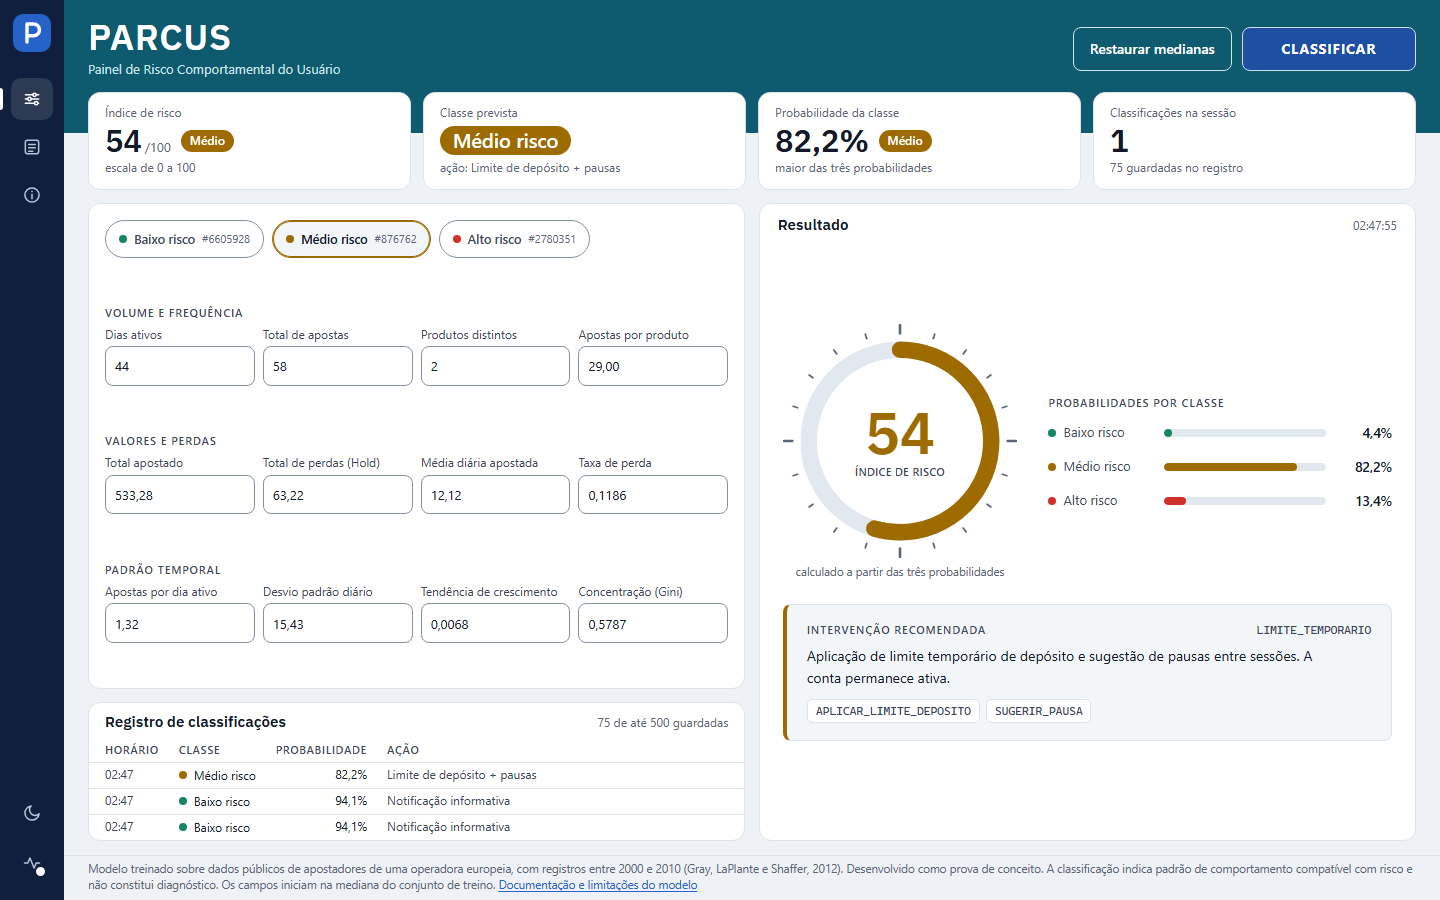
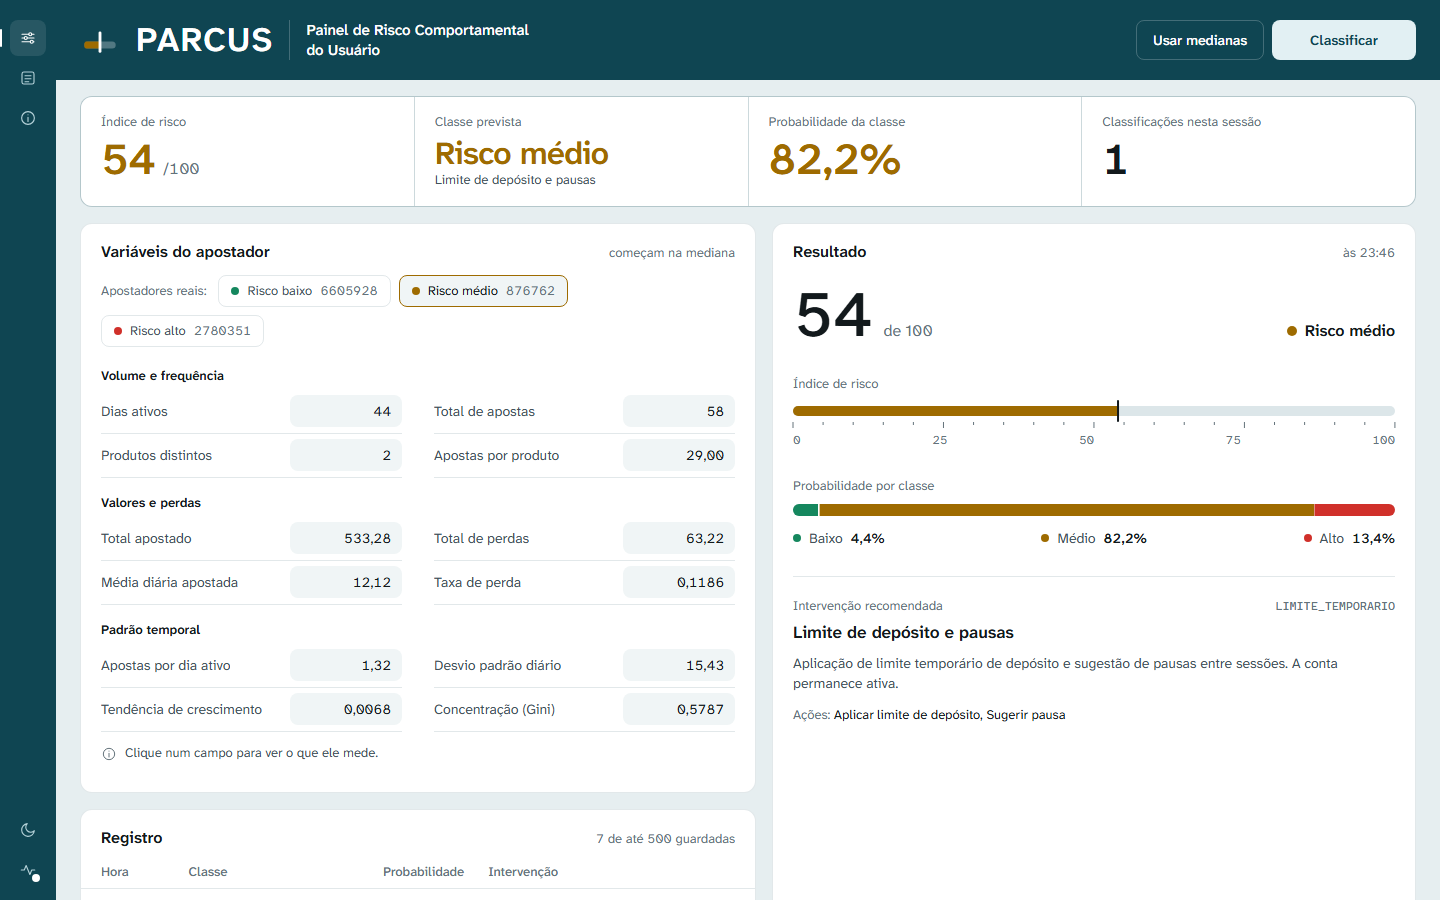
Atualiza README e prints do painel para o novo visual do PARCUS

diff --git a/README.md b/README.md
@@ -53,7 +53,7 @@ Dois endereços ficam disponíveis:
 - `http://127.0.0.1:8000` — PARCUS, o painel de demonstração
 - `http://127.0.0.1:8000/docs` — documentação interativa da API
 
-O PARCUS mostra, numa única tela, o formulário com as doze variáveis, o resultado da classificação e o registro das últimas decisões. Três perfis de exemplo, extraídos do dataset, preenchem os campos com valores de apostadores reais de cada classe de risco, e o botão CLASSIFICAR envia os dados à API. No topo, quatro indicadores resumem a última classificação: índice de risco, classe prevista, probabilidade da classe e número de classificações na sessão. O resultado traz o índice num anel de 0 a 100, as três probabilidades e a intervenção recomendada. Os números aparecem com vírgula decimal, e os campos aceitam vírgula ou ponto na digitação; o envio à API usa sempre ponto. Há tema claro e escuro, que segue a preferência do sistema e pode ser alternado na barra lateral.
+O PARCUS reúne, na mesma página, o formulário com as doze variáveis, o resultado da classificação e o registro das últimas decisões. Três apostadores reais do dataset, um de cada classe de risco, preenchem os campos com um clique, e o botão Classificar envia os dados à API; os campos que mudam piscam de leve, e uma linha de ajuda no pé do formulário explica o campo em foco. No topo, quatro indicadores resumem a última classificação: índice de risco, classe prevista, probabilidade da classe e número de classificações na sessão, os três primeiros na cor do nível de risco. O resultado mostra o índice numa escala de 0 a 100, as três probabilidades numa barra única que soma 100% e a intervenção recomendada, com as ações em texto legível e o código da intervenção ao lado. A animação acompanha só o que muda: o índice conta do valor anterior até o novo junto com a escala, a barra de probabilidades se redistribui, a linha nova do registro entra com um realce, e a marca do cabeçalho — uma régua com marcador — desliza para a esquerda, o centro ou a direita na cor de risco baixo, médio ou alto. Quem desativa animações no sistema vê as mudanças sem movimento. Os números aparecem com vírgula decimal, e os campos aceitam vírgula ou ponto na digitação; o envio à API usa sempre ponto. Há tema claro, com moldura azul-petróleo, e tema escuro, com moldura grafite; o tema segue a preferência do sistema e pode ser alternado na barra lateral, cujos ícones também levam a cada seção da página. O texto usa a fonte Atkinson Hyperlegible Next, desenhada para leitura fácil.
 
 ---
 
@@ -162,7 +162,7 @@ A função verifica a presença das doze variáveis, valida os domínios, confer
 ```
 modelo/         Modelo serializado e metadados
 src/            API, função de predição e app Streamlit
-static/         Painel web PARCUS (index.html) e a fonte dos títulos (fonts/, licença OFL em static/fonts/LICENSE)
+static/         Painel web PARCUS (index.html)
 pipeline/       Preparação dos dados e treino, em ordem de execução
 experimentos/   Scripts dos experimentos de modelagem
 resultados/     Métricas e figuras gerados
@@ -251,4 +251,4 @@ Dados disponibilizados publicamente pelo Transparency Project, Division on Addic
 
 O código está sob a licença MIT (arquivo `LICENSE`).
 
-A fonte dos títulos do painel, `static/fonts/parcus-titulo-600.woff2`, é derivada da IBM Plex Sans (Copyright © 2017 IBM Corp.) e distribuída sob a SIL Open Font License 1.1. Como "Plex" é nome reservado e o arquivo é um subconjunto modificado, a família foi renomeada para "PARCUS Titulo". O texto da licença e as modificações estão em `static/fonts/LICENSE`.
+O painel carrega a fonte Atkinson Hyperlegible Next (Braille Institute of America) pelo Google Fonts, sob a SIL Open Font License 1.1; o arquivo da fonte não é distribuído neste repositório. Sem acesso à internet, o painel usa a fonte do sistema.
